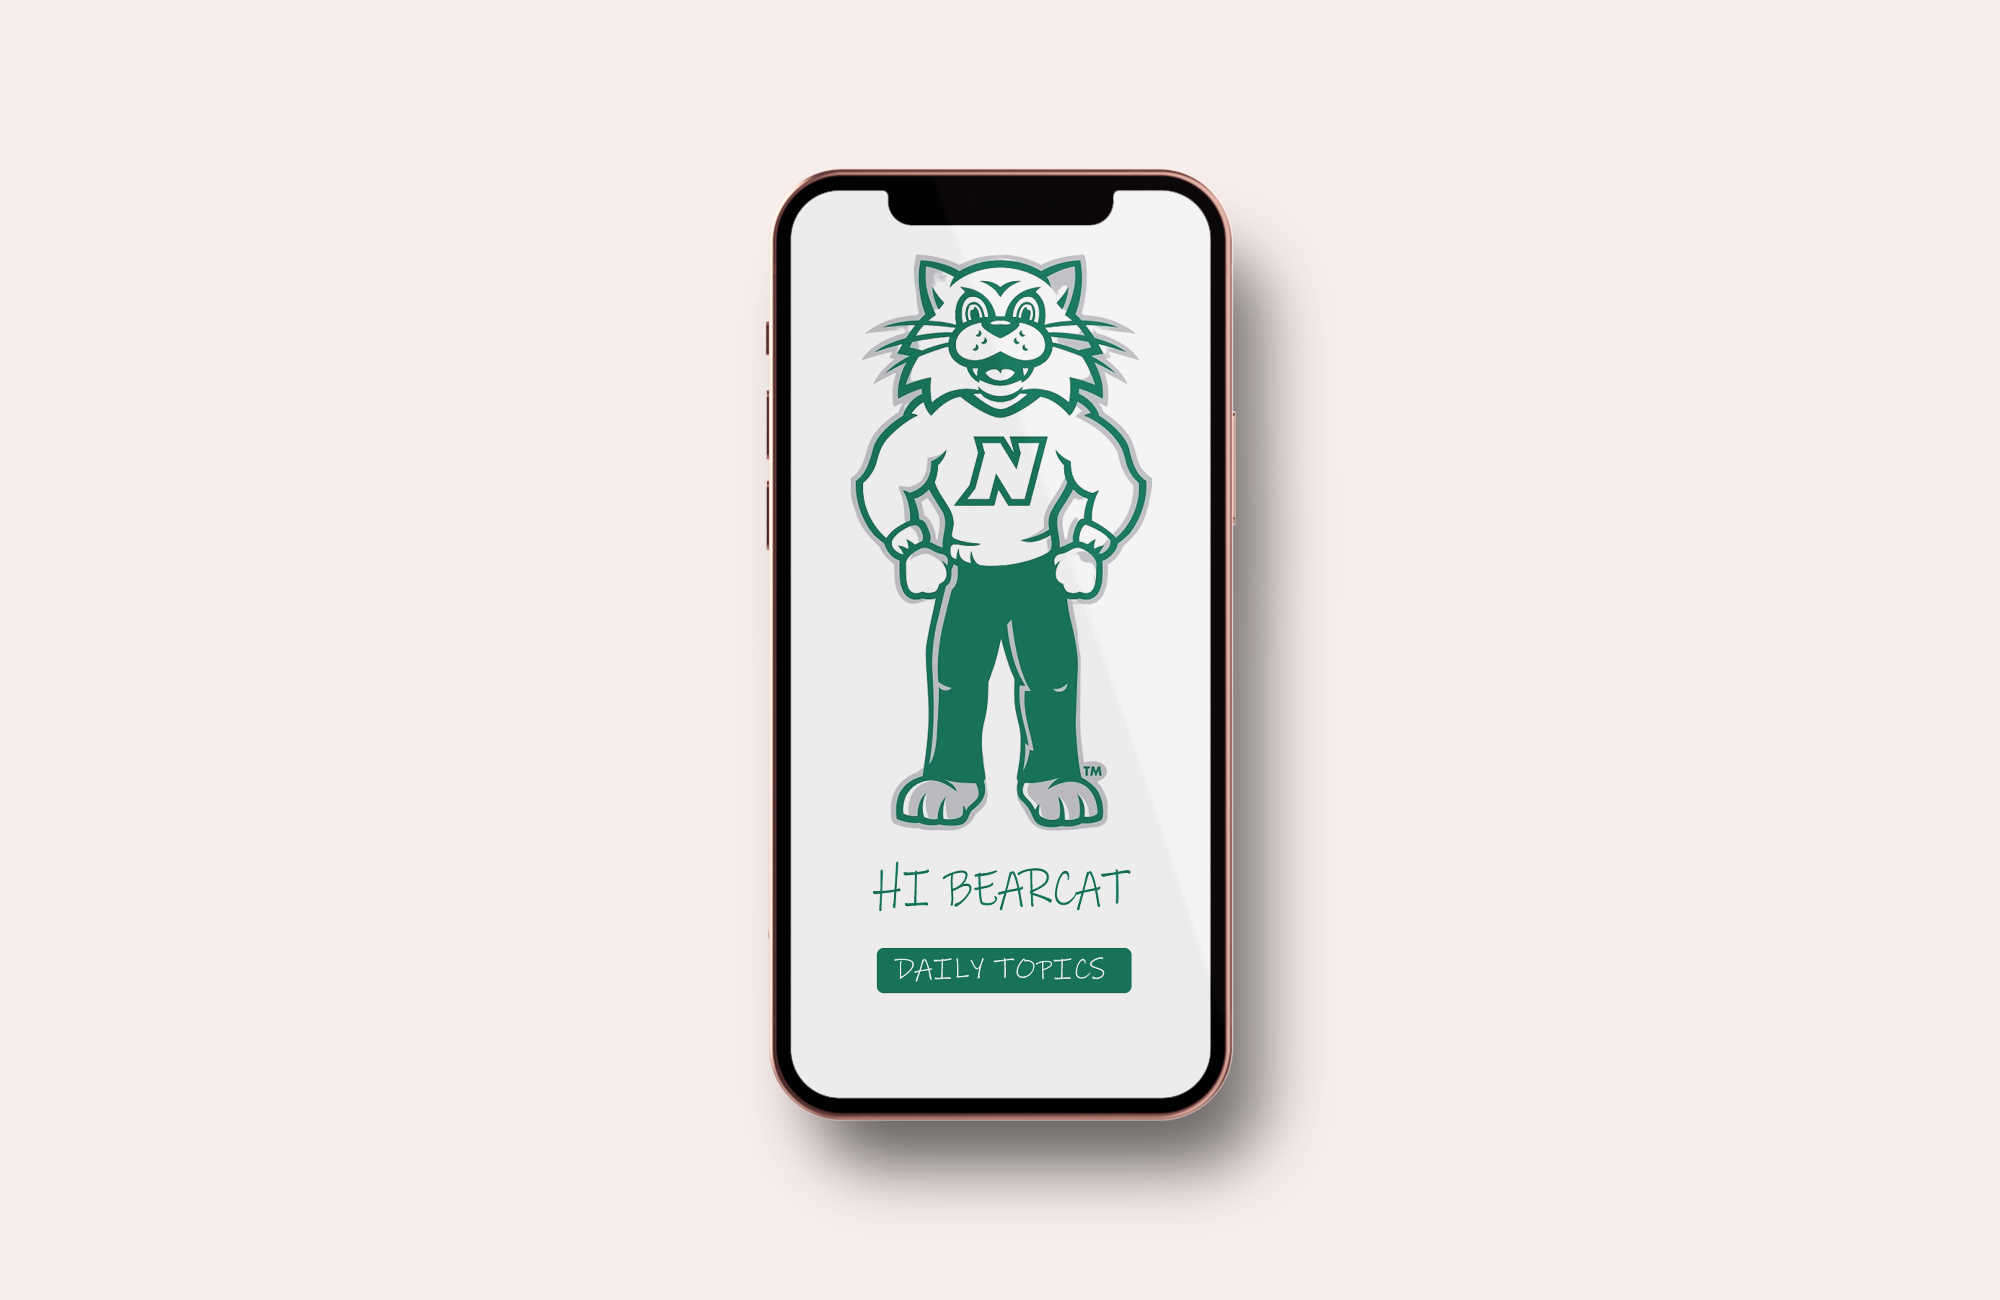
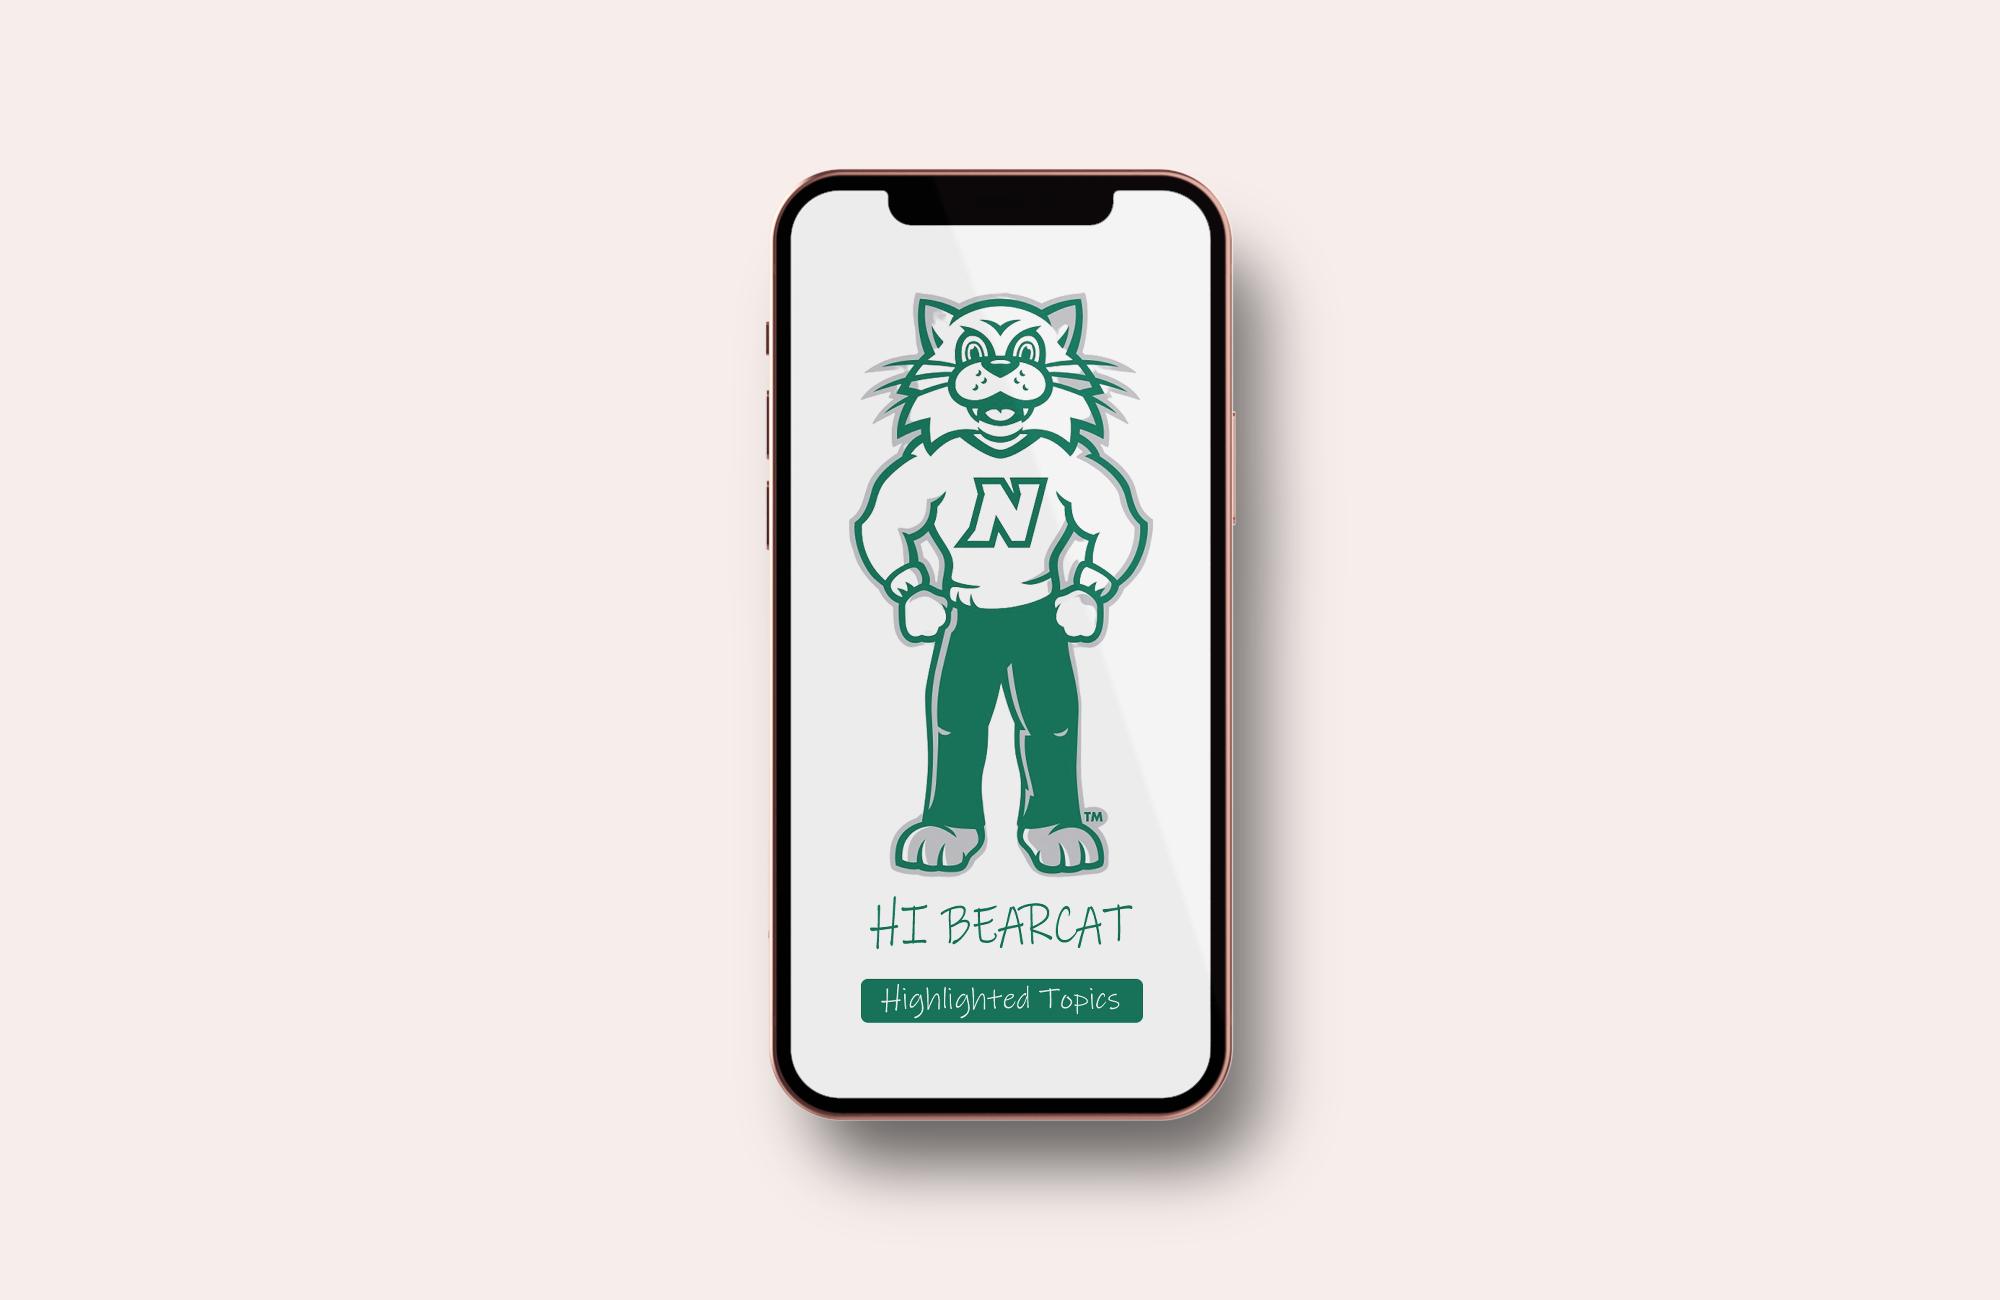
Changed 2nd screen

Changed region(s): [[0.403, 0.1846, 0.589, 0.8]]

diff --git a/rfp.md b/rfp.md
@@ -102,7 +102,7 @@ To develop an app with authentication and authorization and Progressive web appl
   ### Homepage
   ![1STSCREEN](images/1STSCREEN.png.png)
   ### Highlighted topic
-  ![2NDSCREEN](images/2NDSCREEN.png.png)
+  ![2NDSCREEN](images/2NDSCREEN.png)
   ### Collections
   ![3RDSCREEN](images/3RDSCREEN.png.png) 
   ### Up to date Content
